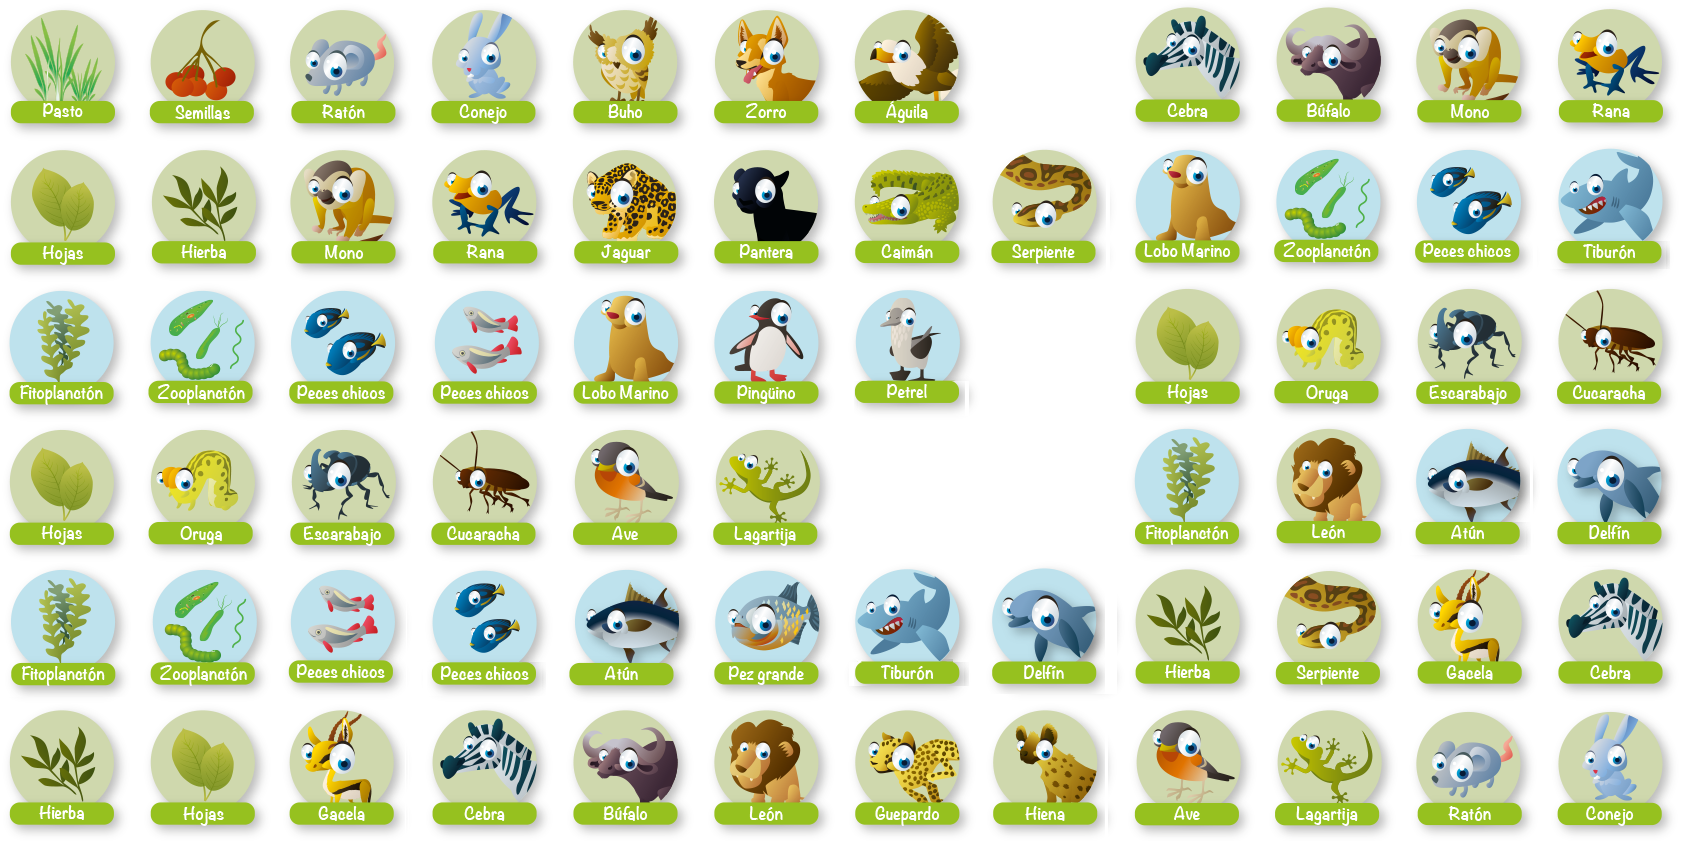
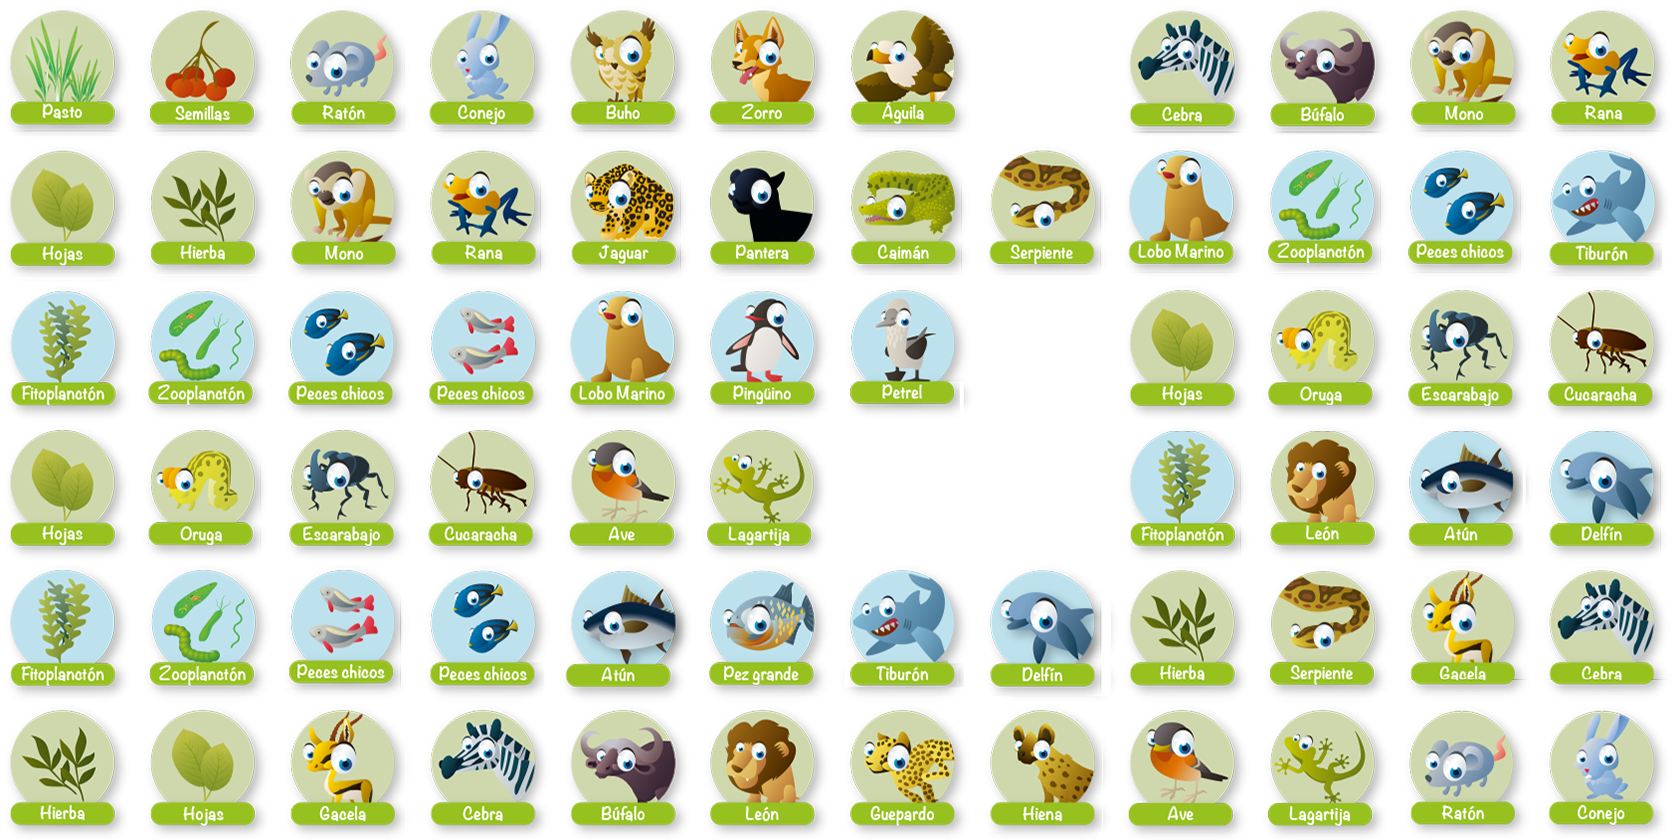
Beta

diff --git a/recursos/js/j3/RedesTroficas.js b/recursos/js/j3/RedesTroficas.js
@@ -458,8 +458,8 @@ Red.prototype.armar1=function(cfg){
 				if(this.nodos[ja].current==undefined){
 					this.nodos[ja].current=nya
 					nya.nodo=this.nodos[ja];
-					nya.x=this.nodos[ja].x;
-					nya.y=this.nodos[ja].y;
+					nya.x=this.nodos[ja].x-5;
+					nya.y=this.nodos[ja].y-5;
 					break;
 				}
 			}
